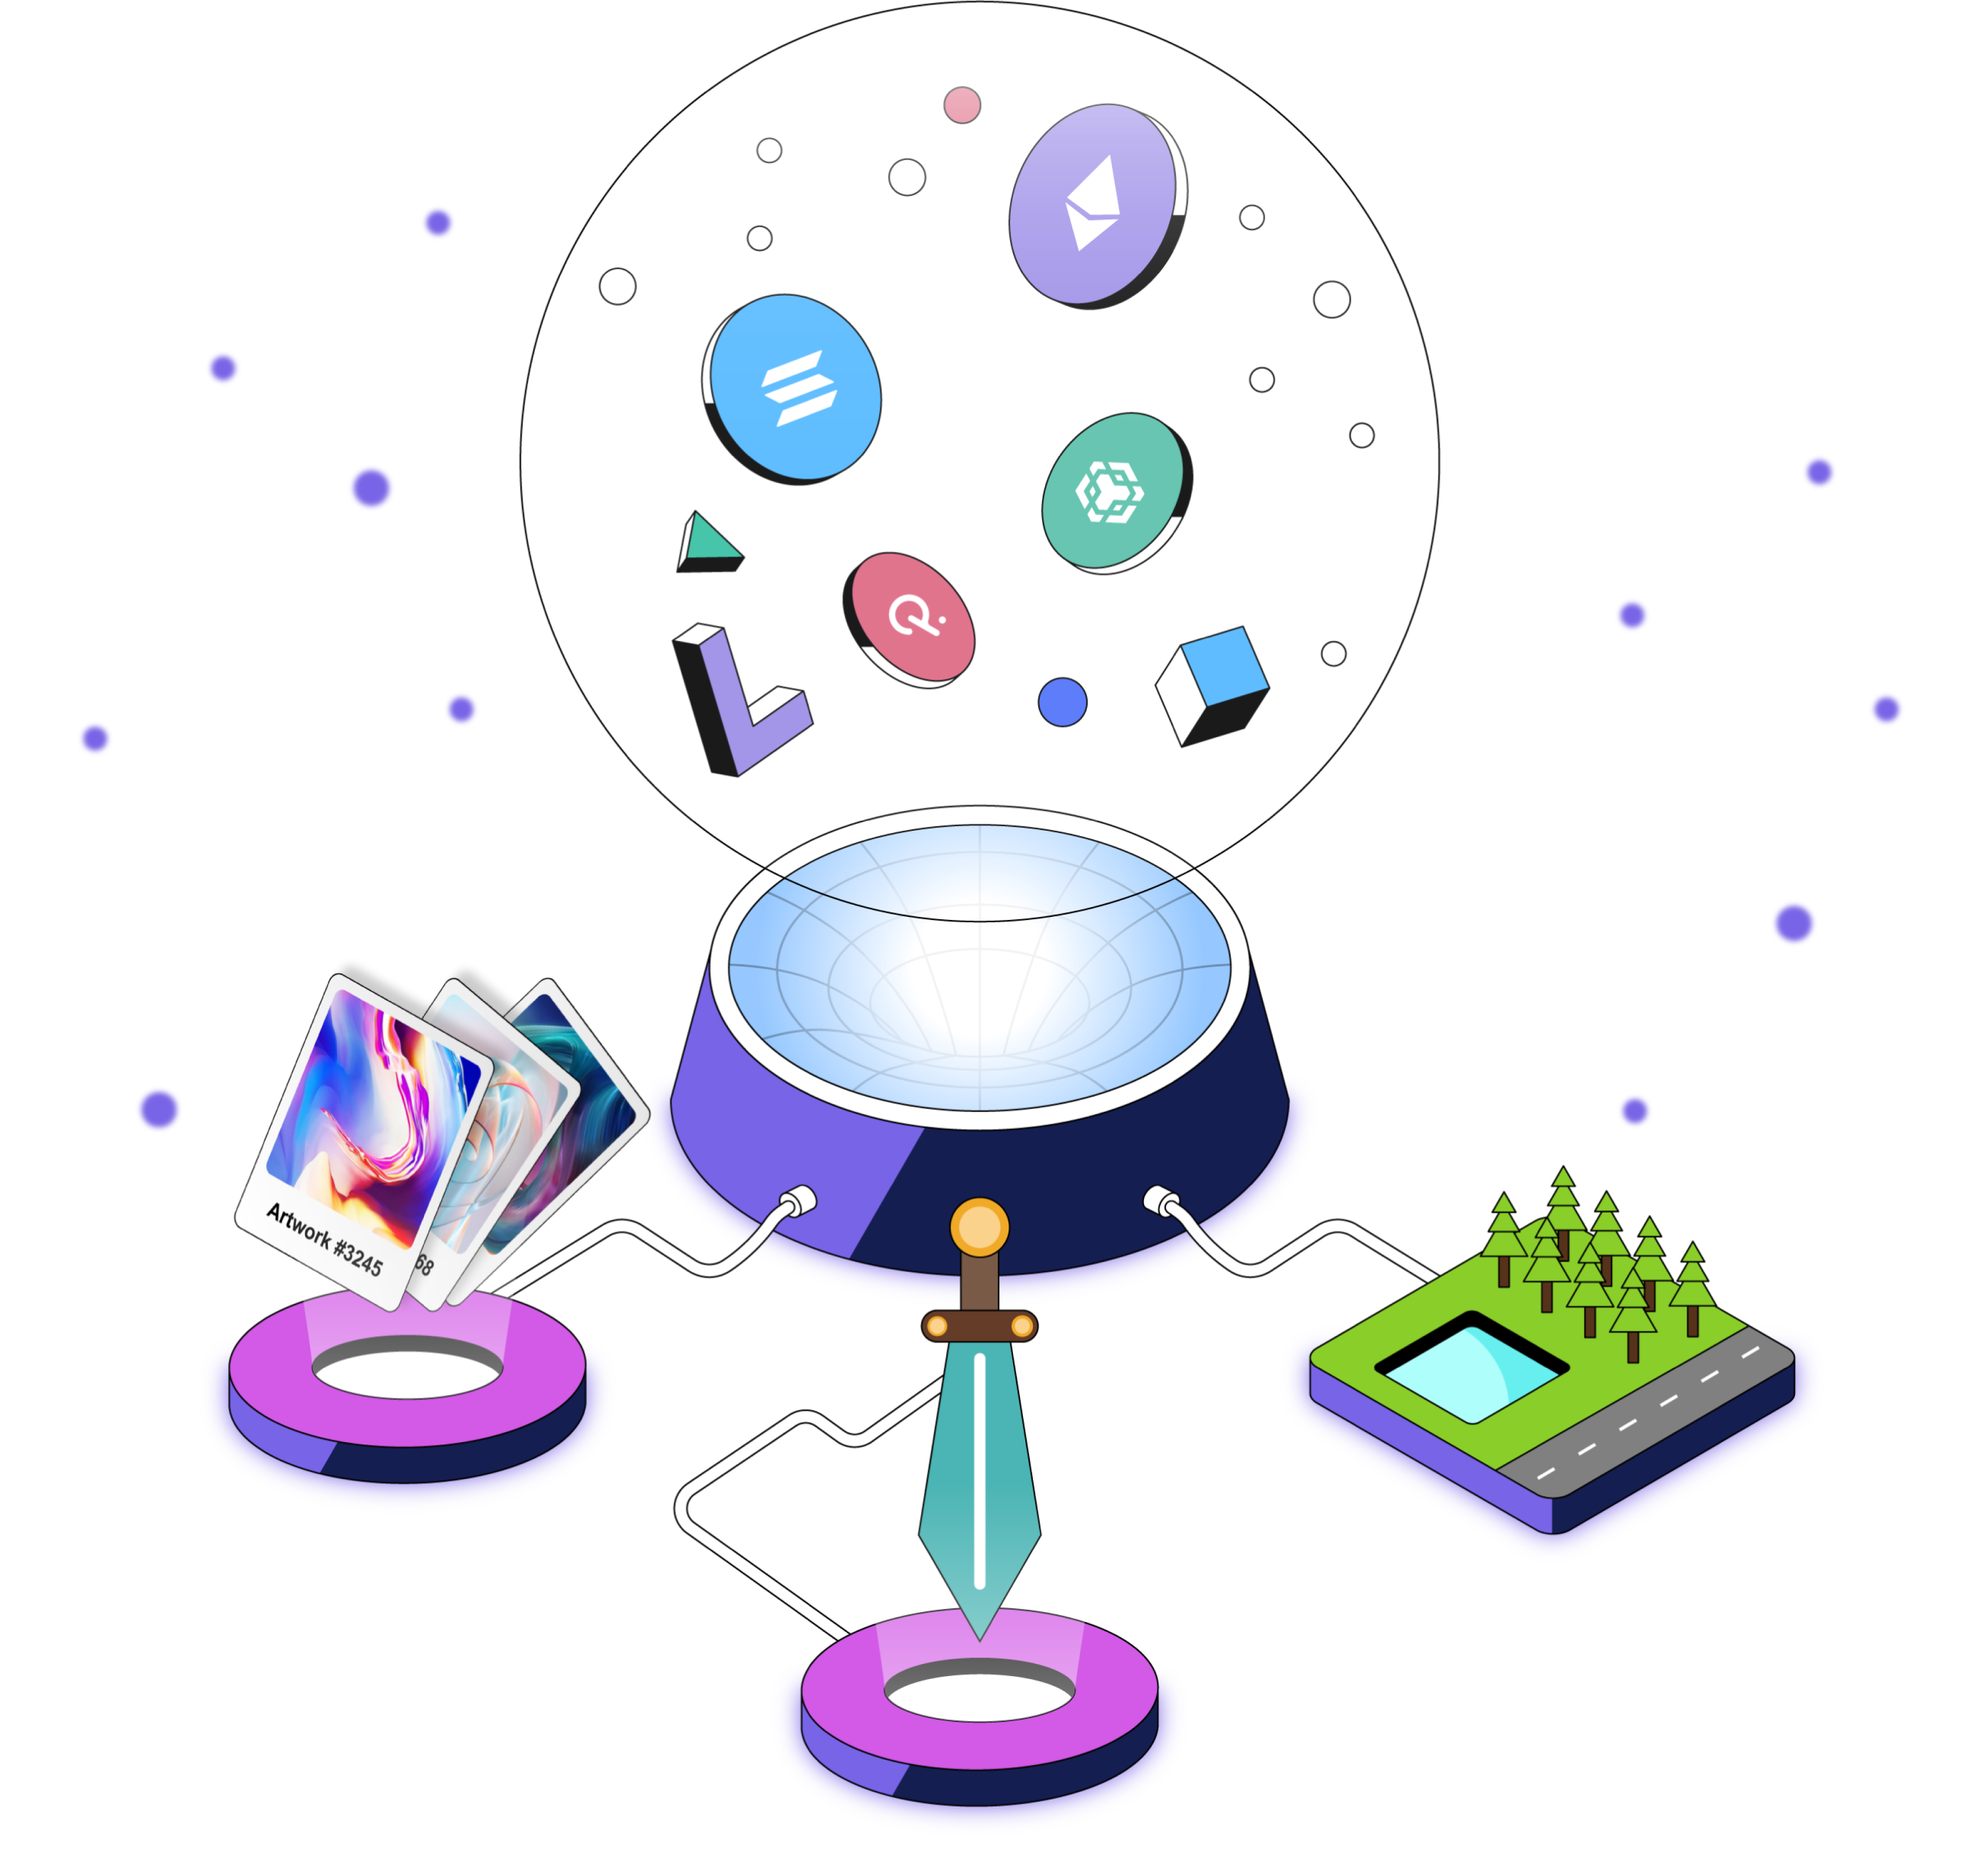
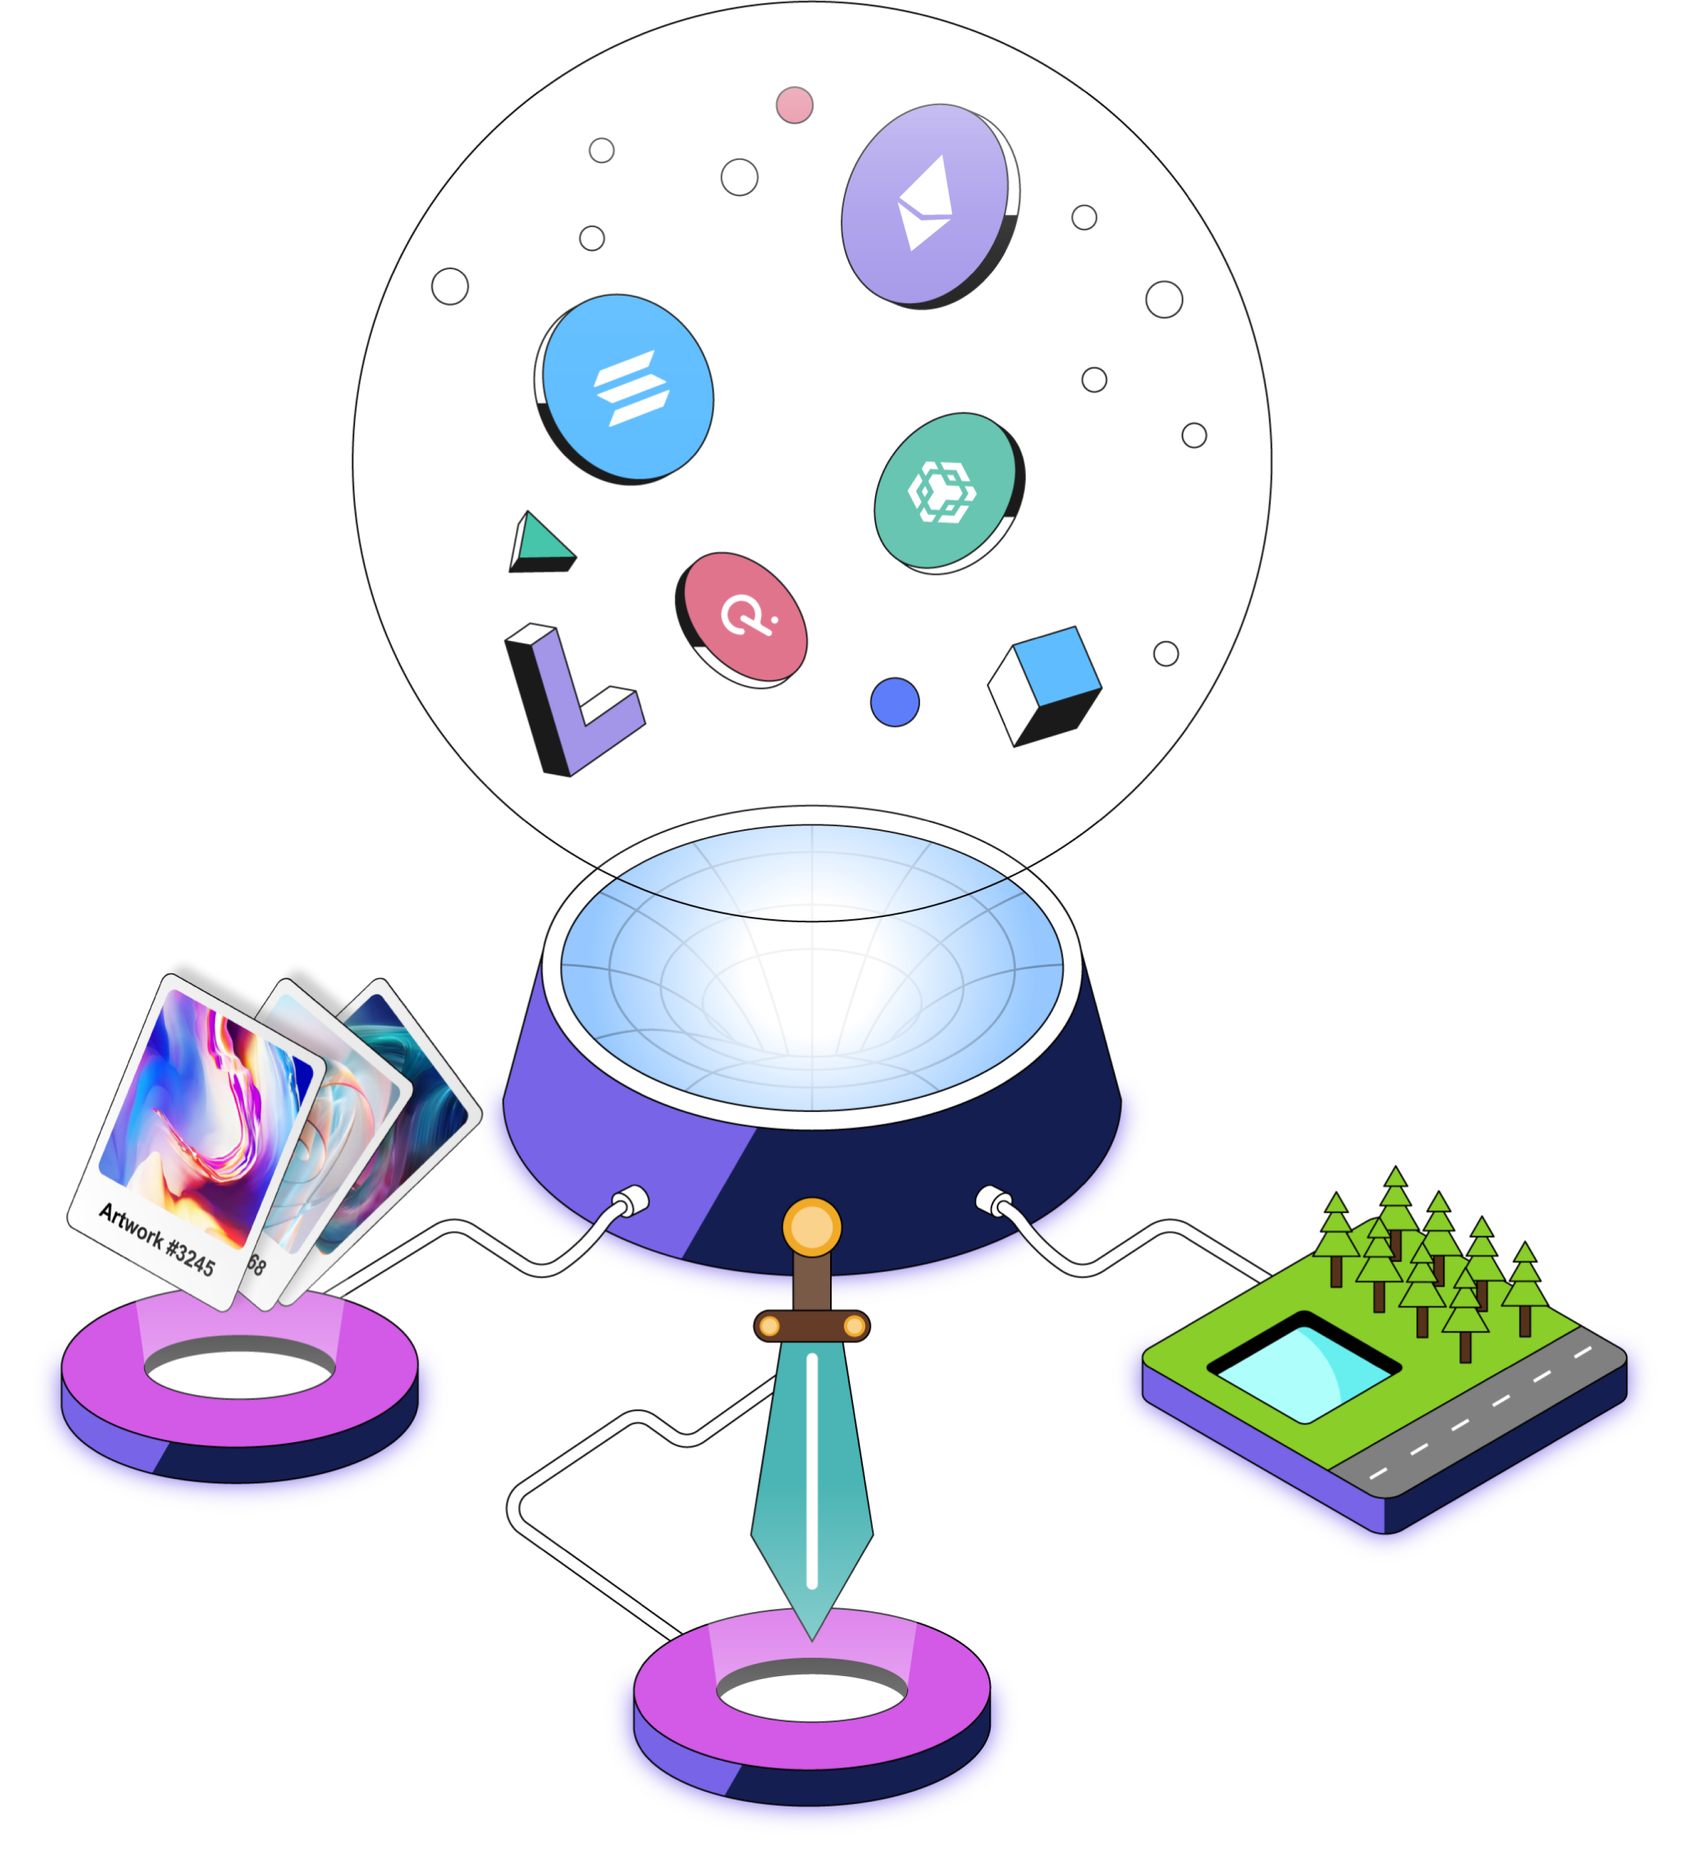
feat: update API base; refine search function of free feeds page

diff --git a/src/pages/home/modules/first-screen/index.tsx b/src/pages/home/modules/first-screen/index.tsx
@@ -2,7 +2,7 @@ import React from 'react'
 import { Button, Flex, Grid, Text } from '@banksea-finance/ui-kit'
 import styled from 'styled-components'
 import { Link } from 'react-router-dom'
-import { BinanceSvg, EthereumSvg, PolkadotSvg, SolanaSvg } from '@/components/svgs'
+import { EthereumSvg, PolkadotSvg, SolanaSvg } from '@/components/svgs'
 
 const FirstScreenModuleContainer = styled.div`
   display: flex;
@@ -22,7 +22,8 @@ const FirstScreenModuleContainer = styled.div`
 `
 
 const Image = styled.img`
-  width: min(851px, 45vw);
+  width: min(722px, 50vw);
+  z-index: 1;
 
   ${({ theme }) => theme.mediaQueries.maxXl} {
     width: 60vw;
@@ -33,35 +34,39 @@ export const FirstScreenModule: React.FC = () => {
   return (
     <FirstScreenModuleContainer>
       <Flex
-        width={'min(2000px, 96vw)'}
+        width={'min(1440px, 96vw)'}
         pt={'2%'}
         height={'fit-content'}
         flexDirection={{ xl: 'row-reverse', _: 'column' }}
         ai={{ _: 'center' }}
         jc={{ xl: 'space-between' }}
+        position={'relative'}
       >
         <Image src={require('@/assets/images/pages/home/fs.png')} alt="" />
 
-        <Flex flexDirection={'column'} ai={{ xl: 'start', _: 'center' }}>
+        <Flex
+          flexDirection={'column'}
+          ai={{ xl: 'start', _: 'center' }}
+          width={'90vw'}
+          position={{ xl: 'absolute', _: 'relative' }}
+          left={'0'}
+          zIndex={'11'}
+        >
           <Text
             as={'span'}
             fontSize={{ xl: 'min(75px, 4vw)', _: 'min(60px, 8vw)' }}
             important
             bold
-            lineHeight={'1'}
+            lineHeight={'1.5'}
             textAlign={{ xl: 'start', _: 'center' }}
+            width={'100%'}
           >
             {'The First '}
-            <Text
-              as={'span'}
-              gradient
-              fontSize={{ xl: 'min(75px, 4vw)', _: 'min(60px, 8vw)' }}
-              important
-              bold
-            >
+            <span className={'gradient'}>
               AI-Driven
-            </Text>
-            <br /> NFT Oracle
+            </span>
+            <br />
+            NFT Oracle
           </Text>
 
           <Text color={'disabled'} mb={{ lg: '42px', _: '36px' }} mt={{ lg: '36px', _: '24px' }}>
@@ -88,7 +93,6 @@ export const FirstScreenModule: React.FC = () => {
             <PolkadotSvg />
             <SolanaSvg />
             <EthereumSvg />
-            <BinanceSvg />
           </Grid>
         </Flex>
       </Flex>

diff --git a/src/pages/free-feeds/AllFreeFeedsPage.tsx b/src/pages/free-feeds/AllFreeFeedsPage.tsx
@@ -1,4 +1,4 @@
-import React, { useState } from 'react'
+import React, { useCallback, useRef, useState, KeyboardEvent, MouseEvent } from 'react'
 import {
   Box,
   Button,
@@ -14,12 +14,32 @@ import { useFreeFeedsQuery } from '@/hooks/queries/free-feeds/useFreeFeedsQuery'
 import usePageQuery from '@/hooks/usePageQuery'
 import { AiOutlineSearch } from 'react-icons/ai'
 import { FreeFeedsTable } from '@/components/free-feeds-table'
+import { useLocation } from 'react-router'
+import { useStoredUrlQuery } from '@/hooks/useStoredUrlQuery'
 
 export const AllFreeFeedsPage: React.FC = () => {
+  const searchParams = new URLSearchParams(useLocation().search)
+
   const { isXs, isSm } = useMatchBreakpoints()
-  const [search, setSearch] = useState('')
+  const [search, setSearch] = useState(searchParams.get('search') || '')
+
+  const inputRef = useRef<any>()
   const { current, size, handleChange } = usePageQuery({ size: 5 }, { keepInSearch: true })
   const { data: feeds, isFetching } = useFreeFeedsQuery({ current, size, search })
+
+  const onSearch = useCallback((event: KeyboardEvent<HTMLDivElement> | MouseEvent) => {
+    if ('code' in event && !inputRef.current) {
+      inputRef.current = event.target
+    }
+
+    if (!('code' in event) || (event.code === 'Enter' || event.code === 'NumpadEnter')) {
+      const val = inputRef.current.value
+      setSearch(val)
+
+    }
+  }, [inputRef])
+
+  useStoredUrlQuery({ search })
 
   return (
     <Box>
@@ -36,11 +56,16 @@ export const AllFreeFeedsPage: React.FC = () => {
         </Flex>
 
         <Input
-          value={search}
-          onChange={e => setSearch(e.target.value)}
+          defaultValue={search}
+          onKeyDown={onSearch}
           placeholder={'Search by collection name or slug...'}
           endAdornment={
-            <Button ml={'8px'} p={'12px'} style={{ background: 'linear-gradient(180deg, rgb(120, 100, 230) 0%, rgb(210, 90, 230) 55%)' }}>
+            <Button
+              ml={'8px'}
+              p={'12px'}
+              onClick={onSearch}
+              style={{ background: 'linear-gradient(180deg, rgb(120, 100, 230) 0%, rgb(210, 90, 230) 55%)' }}
+            >
               <AiOutlineSearch size={18} />
             </Button>
           }

diff --git a/src/components/footer/index.tsx b/src/components/footer/index.tsx
@@ -16,6 +16,25 @@ const SOCIAL_MEDIA: SocialMedium[] = [
   { to: 'mailto://contact@banksea.finance', icon: require('@/images/social-media-logos/email.png') },
 ]
 
+const CATEGORIES = {
+  'Banksea': {
+    'Home': 'https://banksea.finance/',
+    'Roadmap': 'https://banksea.finance/roadmap',
+    'Doc': 'https://banksea-finance.gitbook.io/banksea-finance/',
+    'Medium': 'https://medium.com/@BankseaFinance',
+  },
+  'Information': {
+    'FAQ': '',
+    'Blog': '',
+    'Videos': ''
+  },
+  'Other': {
+    'Banksea Token': '',
+    'Disclaimer': '',
+    'Brand Guidelines': '',
+  }
+}
+
 const SocialMediumContainer = styled.a`
   color: #BABAC0;
   user-select: none;
@@ -60,25 +79,6 @@ const StyledFooter = styled.div`
 `
 
 const Footer: React.FC = () => {
-  const CATEGORIES = {
-    'Banksea': {
-      'Home': 'https://banksea.finance/',
-      'Roadmap': 'https://banksea.finance/roadmap',
-      'Doc': 'https://banksea-finance.gitbook.io/banksea-finance/',
-      'Medium': 'https://medium.com/@BankseaFinance',
-    },
-    'Information': {
-      'FAQ': '',
-      'Blog': '',
-      'Videos': ''
-    },
-    'Other': {
-      'Banksea Token': '',
-      'Disclaimer': '',
-      'Brand Guidelines': '',
-    }
-  }
-
   return (
     <StyledFooter>
       <Box background={'transparent'} p={'48px 10%'}>
@@ -95,7 +95,7 @@ const Footer: React.FC = () => {
             <Flex jc={'space-between'} width={'100%'}>
               {
                 SOCIAL_MEDIA.map(({ icon, to }, index) => (
-                  <SocialMediumContainer href={to} key={index}>
+                  <SocialMediumContainer href={to} target={'_blank'} rel={'noreferrer'} key={index}>
                     <img src={icon} alt={to} />
                   </SocialMediumContainer>
                 ))

diff --git a/src/hooks/usePageQuery.ts b/src/hooks/usePageQuery.ts
@@ -1,34 +1,23 @@
 import { useCallback, useState } from 'react'
-import { useLocation } from 'react-router'
-import { useNavigate } from 'react-router-dom'
+import { useStoredUrlQuery } from '@/hooks/useStoredUrlQuery'
+import { useLocationQuery } from '@/hooks/useLocationQuery'
 
 type PageQueryOpts = {
   keepInSearch?: boolean
 }
 
 const usePageQuery = (defaultState?: {current?: number, size?: number}, opts?: PageQueryOpts) => {
-  const { keepInSearch } = opts || {}
-  const searchParams = new URLSearchParams(useLocation().search)
+  const [current, setCurrent] = useState<number>(Number(useLocationQuery('current') || defaultState?.current || 1))
+  const [size, setSize] = useState<number>(Number(useLocationQuery('size') || defaultState?.size || 10))
 
-  const navigate = useNavigate()
-  const { pathname } = useLocation()
-
-  const [current, setCurrent] = useState<number>(Number(searchParams.get('p') || defaultState?.current || 1))
-  const [size, setSize] = useState<number>(Number(searchParams.get('s') || defaultState?.size || 10))
+  useStoredUrlQuery(opts?.keepInSearch ? { current, size } : undefined)
 
   const handleChange = useCallback(
     (page: number, pageSize?: number) => {
       setCurrent(page)
       pageSize && setSize(pageSize)
-
-      if (keepInSearch) {
-        searchParams.set('p', `${page}`)
-        pageSize && searchParams.set('s', `${pageSize}`)
-
-        navigate(`${pathname}?${searchParams.toString()}`, { replace: true })
-      }
     },
-    [pathname, searchParams, keepInSearch]
+    []
   )
 
   return {

diff --git a/src/hooks/useStoredUrlQuery.ts b/src/hooks/useStoredUrlQuery.ts
@@ -1,0 +1,20 @@
+import { useLocation } from 'react-router'
+import { useEffect } from 'react'
+import { useNavigate } from 'react-router-dom'
+
+export const useStoredUrlQuery = (obj?: Record<string, any>) => {
+  const navigate = useNavigate()
+  const { pathname, search } = useLocation()
+
+  useEffect(() => {
+    const searchParams = new URLSearchParams(search)
+
+    if (obj) {
+      Object.entries(obj).forEach(([key, value]) => {
+        searchParams.set(key, value.toString())
+      })
+
+      navigate(`${pathname}?${searchParams.toString()}`, { replace: true })
+    }
+  }, [pathname, JSON.stringify(obj), search])
+}

diff --git a/src/hooks/queries/free-feeds/useFreeFeedsQuery.ts b/src/hooks/queries/free-feeds/useFreeFeedsQuery.ts
@@ -24,9 +24,9 @@ export const useFreeFeedsQuery = (data?: FreeFeedsCollectionQuery) => {
   return useQuery<BankseaApiPageResult<FeedInfo>>(
     ['FREE_FEEDS', data],
     async () => {
-      const { current = 1, size = 10 } = data || {}
+      const { current = 1, size = 10, search } = data || {}
 
-      const r = (await API.v2.FreeFeeds.getFreeFeeds({ current, size }) ) as unknown as BankseaApiPageResult<FeedInfo>
+      const r = (await API.v2.FreeFeeds.getFreeFeeds({ current, size, search }) ) as unknown as BankseaApiPageResult<FeedInfo>
 
       const tasks = r.records.map(o => new PublicKey(o.collectionTask))
 

diff --git a/src/api/service.ts b/src/api/service.ts
@@ -65,7 +65,7 @@ Service.interceptors.response.use(
 )
 
 const ServiceV2 = axios.create({
-  baseURL: 'https://dev-api.banksea.finance/api/web/v1/'
+  baseURL: 'https://api.banksea.finance/api/web/v1/'
 })
 
 ServiceV2.interceptors.response.use(
